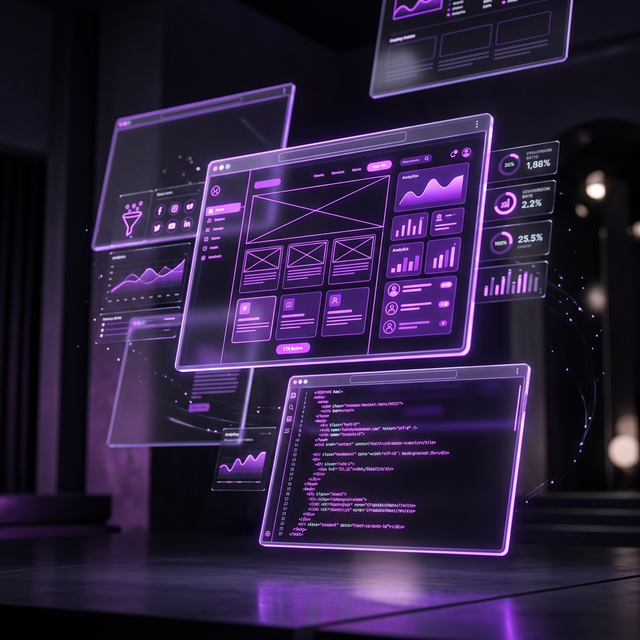
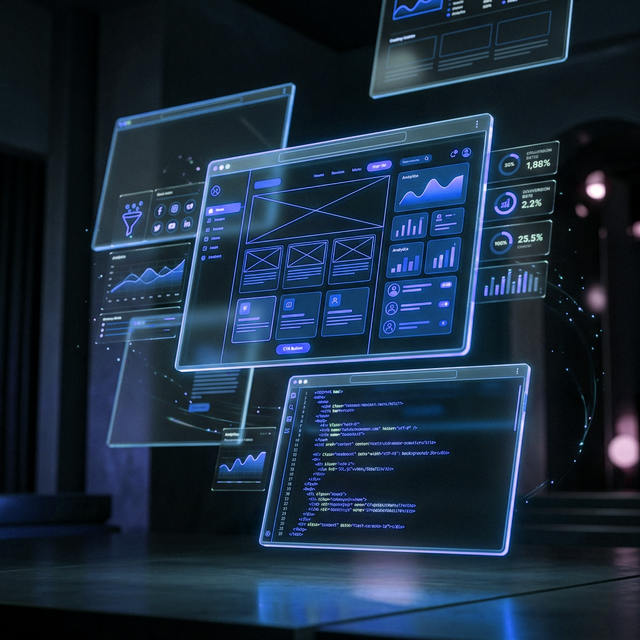
dockerfile

diff --git a/index.html b/index.html
@@ -560,10 +560,15 @@
                     </div>
                     <p class="footer-tagline">Transformamos ideas en experiencias digitales épicas.</p>
                     <div class="social-links">
-                        <a href="#" class="social-link" aria-label="LinkedIn">in</a>
-                        <a href="#" class="social-link" aria-label="Twitter">𝕏</a>
-                        <a href="#" class="social-link" aria-label="Instagram">▣</a>
-                        <a href="#" class="social-link" aria-label="YouTube">▶</a>
+                        <a href="https://api.whatsapp.com/send?phone=593939219616" target="_blank" rel="noopener noreferrer" class="social-link" aria-label="WhatsApp" style="font-size: 16px;">
+                            <svg viewBox="0 0 24 24" fill="currentColor" width="18" height="18"><path d="M17.472 14.382c-.297-.149-1.758-.867-2.03-.967-.273-.099-.471-.148-.67.15-.197.297-.767.966-.94 1.164-.173.199-.347.223-.644.075-.297-.15-1.255-.463-2.39-1.475-.883-.788-1.48-1.761-1.653-2.059-.173-.297-.018-.458.13-.606.134-.133.298-.347.446-.52.149-.174.198-.298.298-.497.099-.198.05-.371-.025-.52-.075-.149-.669-1.612-.916-2.207-.242-.579-.487-.5-.669-.51-.173-.008-.371-.01-.57-.01-.198 0-.52.074-.792.372-.272.297-1.04 1.016-1.04 2.479 0 1.462 1.065 2.875 1.213 3.074.149.198 2.096 3.2 5.077 4.487.709.306 1.262.489 1.694.625.712.227 1.36.195 1.871.118.571-.085 1.758-.719 2.006-1.413.248-.694.248-1.289.173-1.413-.074-.124-.272-.198-.57-.347m-5.421 7.403h-.004a9.87 9.87 0 01-5.031-1.378l-.361-.214-3.741.982.998-3.648-.235-.374a9.86 9.86 0 01-1.51-5.26c.001-5.45 4.436-9.884 9.888-9.884 2.64 0 5.122 1.03 6.988 2.898a9.825 9.825 0 012.893 6.994c-.003 5.45-4.437 9.884-9.885 9.884m8.413-18.297A11.815 11.815 0 0012.05 0C5.495 0 .16 5.335.157 11.892c0 2.096.547 4.142 1.588 5.945L.057 24l6.305-1.654a11.882 11.882 0 005.683 1.448h.005c6.554 0 11.89-5.335 11.893-11.893a11.821 11.821 0 00-3.48-8.413Z"/></svg>
+                        </a>
+                        <a href="https://www.facebook.com/cosmotechec/" target="_blank" rel="noopener noreferrer" class="social-link" aria-label="Facebook">
+                            <svg viewBox="0 0 24 24" fill="currentColor" width="18" height="18"><path d="M24 12.073c0-6.627-5.373-12-12-12s-12 5.373-12 12c0 5.99 4.388 10.954 10.125 11.854v-8.385H7.078v-3.469h3.047V9.43c0-3.007 1.792-4.669 4.533-4.669 1.312 0 2.686.235 2.686.235v2.953H15.83c-1.491 0-1.956.925-1.956 1.874v2.25h3.328l-.532 3.469h-2.796v8.385C19.612 23.027 24 18.062 24 12.073z"/></svg>
+                        </a>
+                        <a href="https://www.instagram.com/cosmotechec/" target="_blank" rel="noopener noreferrer" class="social-link" aria-label="Instagram">
+                            <svg viewBox="0 0 24 24" fill="currentColor" width="18" height="18"><path d="M12 2.163c3.204 0 3.584.012 4.85.07 3.252.148 4.771 1.691 4.919 4.919.058 1.265.069 1.645.069 4.849 0 3.205-.012 3.584-.069 4.849-.149 3.225-1.664 4.771-4.919 4.919-1.266.058-1.644.07-4.85.07-3.204 0-3.584-.012-4.849-.07-3.26-.149-4.771-1.699-4.919-4.92-.058-1.265-.07-1.644-.07-4.849 0-3.204.013-3.583.07-4.849.149-3.227 1.664-4.771 4.919-4.919 1.266-.057 1.645-.069 4.849-.069zM12 0C8.741 0 8.333.014 7.053.072 2.695.272.273 2.69.073 7.052.014 8.333 0 8.741 0 12c0 3.259.014 3.668.072 4.948.2 4.358 2.618 6.78 6.98 6.98C8.333 23.986 8.741 24 12 24c3.259 0 3.668-.014 4.948-.072 4.354-.2 6.782-2.618 6.979-6.98.059-1.28.073-1.689.073-4.948 0-3.259-.014-3.667-.072-4.947-.196-4.354-2.617-6.78-6.979-6.98C15.668.014 15.259 0 12 0zm0 5.838a6.162 6.162 0 100 12.324 6.162 6.162 0 000-12.324zM12 16a4 4 0 110-8 4 4 0 010 8zm6.406-11.845a1.44 1.44 0 100 2.881 1.44 1.44 0 000-2.881z"/></svg>
+                        </a>
                     </div>
                 </div>
 

diff --git a/styles.css b/styles.css
@@ -109,7 +109,7 @@ img { display:block; }
 .logo-img {
     width:34px; height:34px;
     object-fit:contain;
-    filter:hue-rotate(-55deg) saturate(1.2) brightness(1.05);
+    filter:brightness(1.05);
     display:block;
 }
 
@@ -284,7 +284,7 @@ img { display:block; }
 .hero-image-wrapper { position:relative; width:480px; height:480px; }
 .hero-img {
     width:100%; height:100%; object-fit:contain; position:relative; z-index:2;
-    filter:hue-rotate(-55deg) saturate(1.15) drop-shadow(0 0 30px rgba(var(--primary-rgb),.4)) drop-shadow(0 0 60px rgba(var(--primary-rgb),.2));
+    filter:drop-shadow(0 0 30px rgba(var(--primary-rgb),.4)) drop-shadow(0 0 60px rgba(var(--primary-rgb),.2));
 }
 .hero-img-glow {
     position:absolute; inset:-20%;
@@ -340,7 +340,7 @@ img { display:block; }
     border-radius:var(--radius-lg);
 }
 .service-card-front{overflow:hidden;border:1px solid rgba(var(--primary-rgb),.12);}
-.service-image{width:100%;height:100%;object-fit:cover;transition:transform .6s ease;filter:hue-rotate(-55deg) saturate(1.1);}
+.service-image{width:100%;height:100%;object-fit:cover;transition:transform .6s ease;}
 .service-card-flip:hover .service-image{transform:scale(1.06);}
 .service-overlay{
     position:absolute;bottom:0;left:0;right:0;padding:28px;
@@ -407,7 +407,7 @@ img { display:block; }
 .about-grid{display:grid;grid-template-columns:1fr 1.6fr;gap:100px;align-items:center;}
 .about-visual{display:flex;flex-direction:column;align-items:center;gap:24px;}
 .about-image-wrapper{position:relative;width:280px;height:280px;display:flex;align-items:center;justify-content:center;}
-.about-logo-img{width:200px;height:200px;object-fit:contain;position:relative;z-index:2;filter:hue-rotate(-55deg) saturate(1.1) drop-shadow(0 0 30px rgba(var(--primary-rgb),.5));}
+.about-logo-img{width:200px;height:200px;object-fit:contain;position:relative;z-index:2;filter:drop-shadow(0 0 30px rgba(var(--primary-rgb),.5));}
 .about-glow{position:absolute;inset:0;background:radial-gradient(ellipse at center,rgba(var(--primary-rgb),.3) 0%,rgba(var(--primary-rgb),.1) 50%,transparent 70%);border-radius:50%;animation:glow-pulse 4s ease-in-out infinite;}
 .about-ring{position:absolute;border-radius:50%;border:1px solid rgba(var(--primary-rgb),.2);animation:ring-spin 12s linear infinite;}
 .about-ring-1{width:240px;height:240px;}
